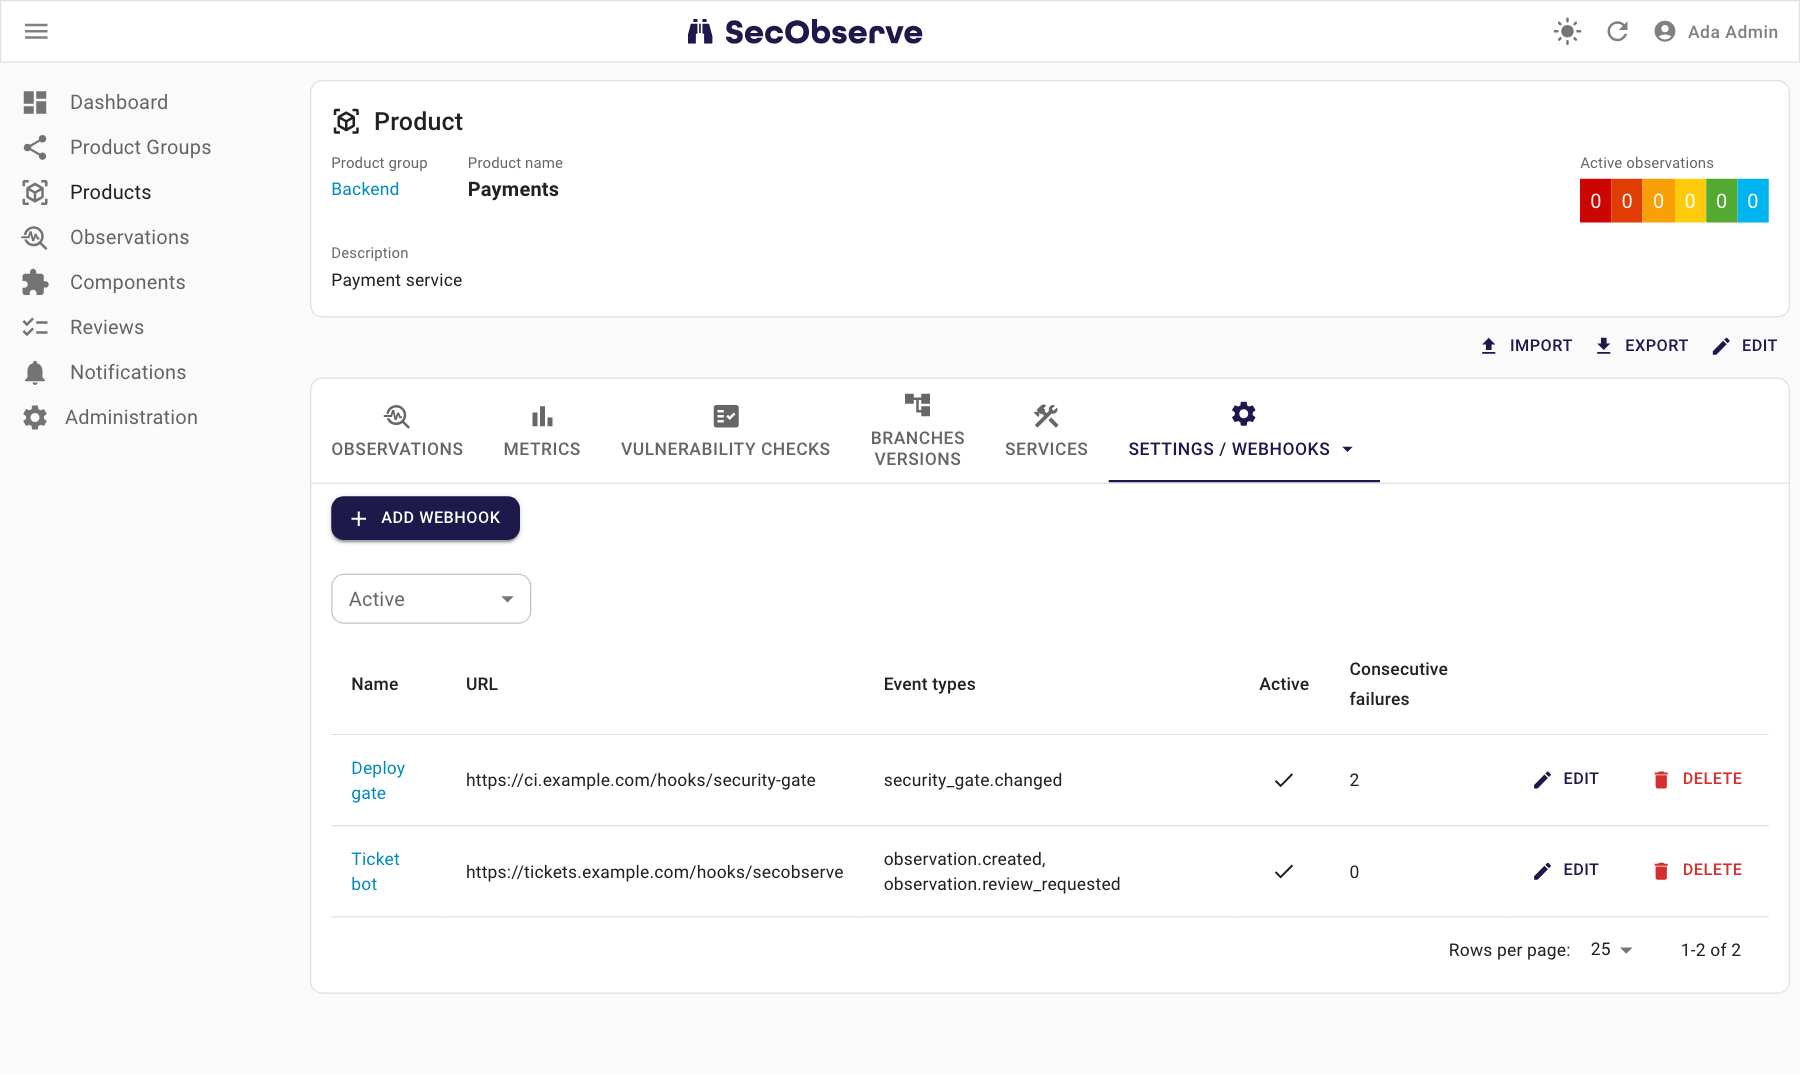
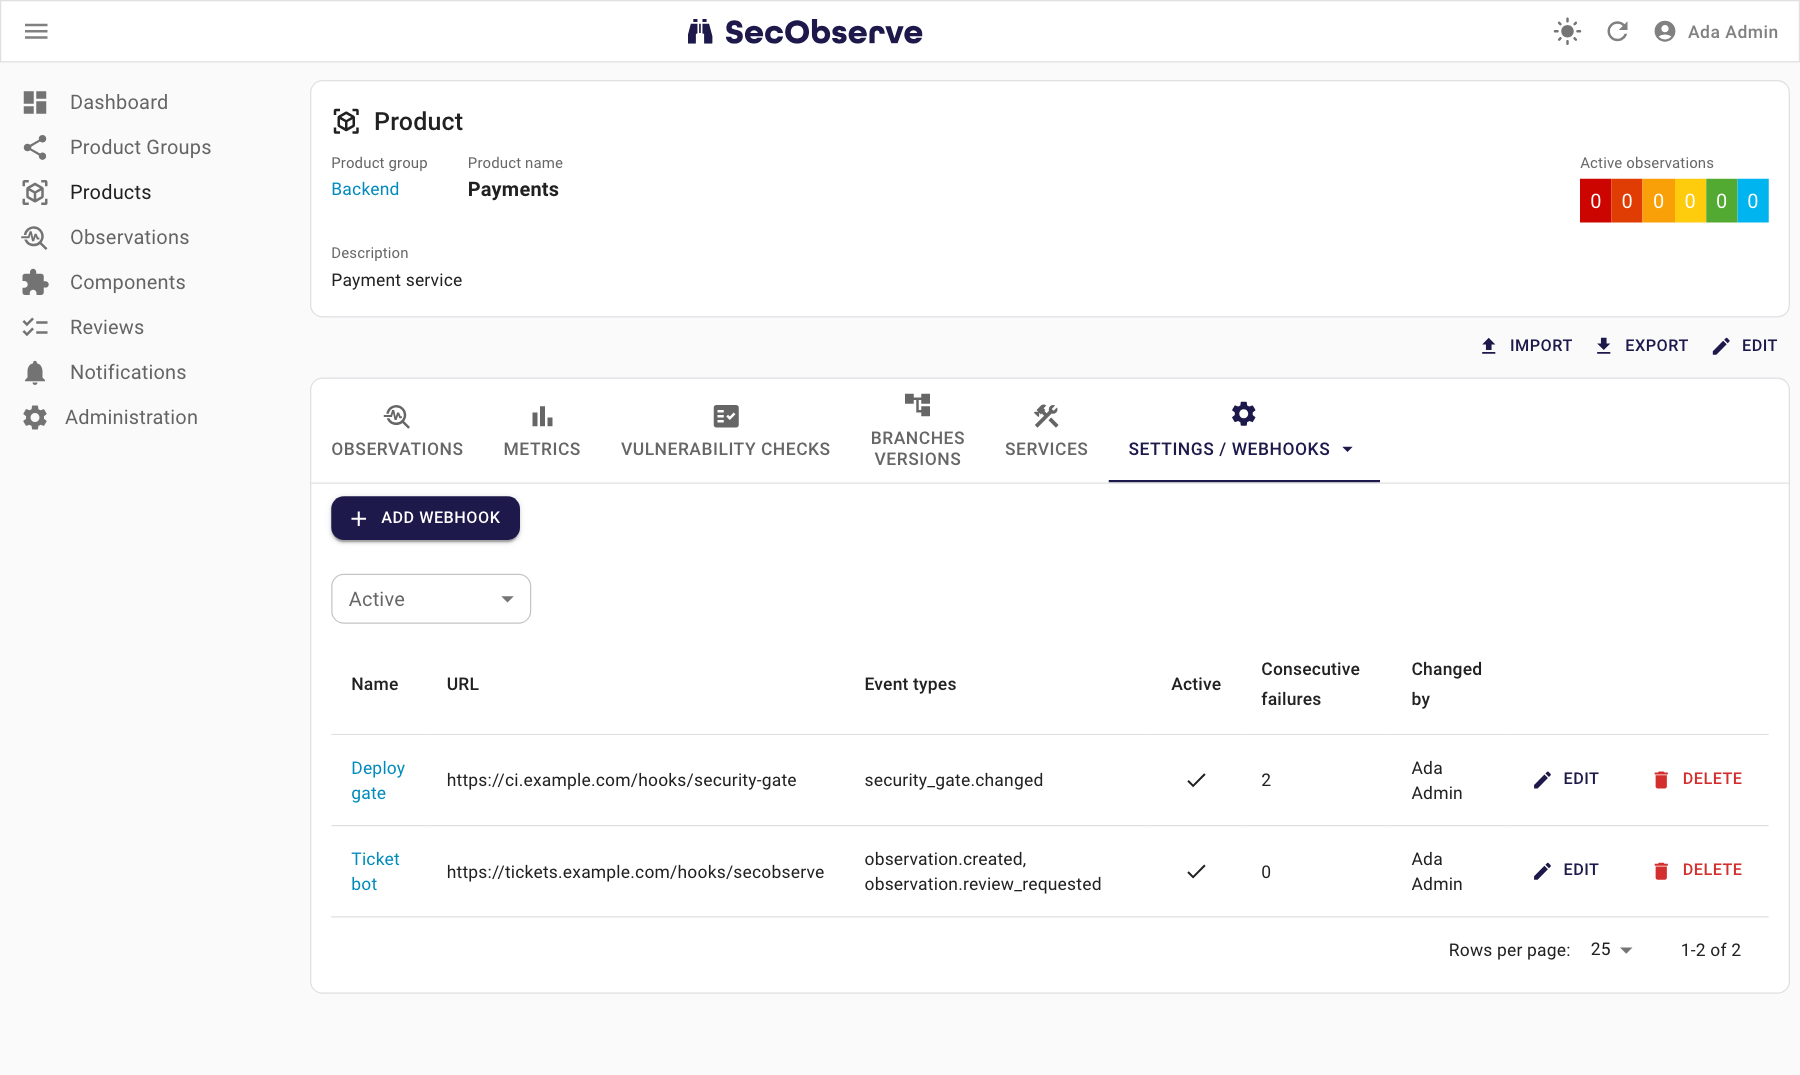
feat(frontend): show who last changed a webhook
Operators need to know whom to ask about the URL of a webhook, the backend now records it.

diff --git a/frontend/src/notifications/webhooks/WebhookEmbeddedList.tsx b/frontend/src/notifications/webhooks/WebhookEmbeddedList.tsx
@@ -70,6 +70,7 @@ const WebhookEmbeddedList = ({ product }: WebhookEmbeddedListProps) => {
                         <WithRecord label="Event types" render={(webhook: Webhook) => webhook.event_types.join(", ")} />
                         <BooleanField source="active" textAlign="center" />
                         <TextField source="consecutive_failures" label="Consecutive failures" />
+                        <TextField source="user_full_name" label="Changed by" />
                         <WithRecord
                             render={(webhook: Webhook) => (
                                 <Stack direction="row" spacing={4}>

diff --git a/frontend/src/notifications/webhooks/WebhookList.tsx b/frontend/src/notifications/webhooks/WebhookList.tsx
@@ -51,6 +51,7 @@ const WebhookList = () => (
                 <WithRecord label="Event types" render={(webhook: Webhook) => webhook.event_types.join(", ")} />
                 <BooleanField source="active" textAlign="center" />
                 <TextField source="consecutive_failures" label="Consecutive failures" />
+                <TextField source="user_full_name" label="Changed by" />
                 <WithRecord
                     render={(webhook: Webhook) => (
                         <Stack direction="row" spacing={4}>

diff --git a/frontend/src/notifications/webhooks/WebhookShow.tsx b/frontend/src/notifications/webhooks/WebhookShow.tsx
@@ -152,6 +152,9 @@ const WebhookComponent = () => (
                             <Labeled label="Created">
                                 <DateField source="created" showTime />
                             </Labeled>
+                            <Labeled label="Changed by">
+                                <TextField source="user_full_name" emptyText="-" />
+                            </Labeled>
                         </Stack>
                     </Stack>
                 </Paper>

diff --git a/frontend/src/notifications/types.ts b/frontend/src/notifications/types.ts
@@ -89,6 +89,7 @@ export interface Webhook extends RaRecord {
     consecutive_failures: number;
     next_attempt_at: string | null;
     created: string;
+    user_full_name: string | null;
 }
 
 export interface WebhookDelivery extends RaRecord {
